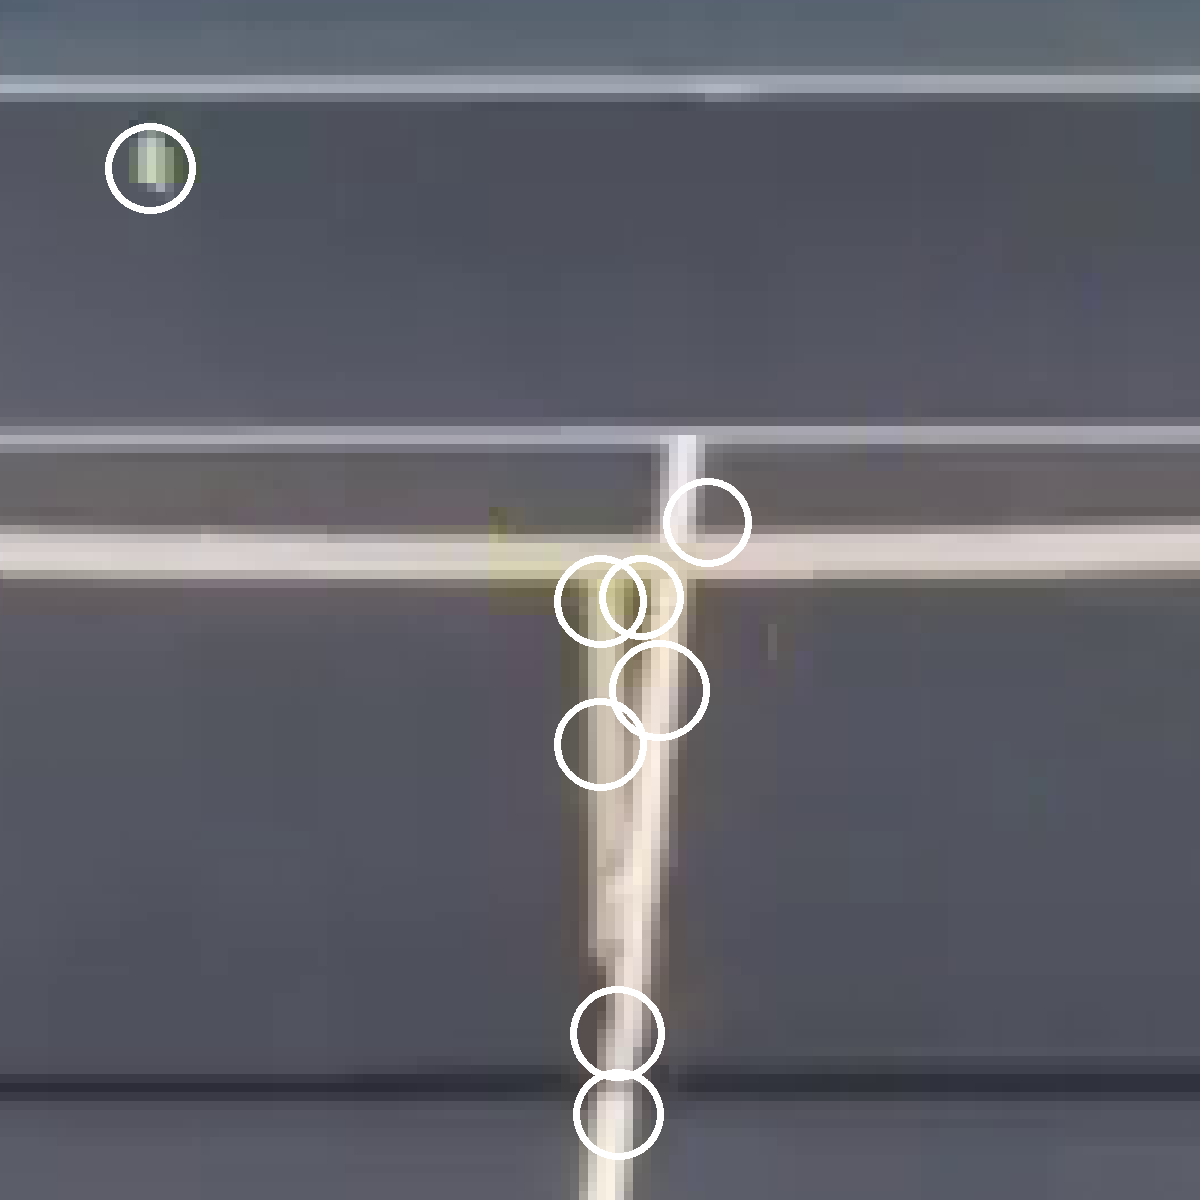
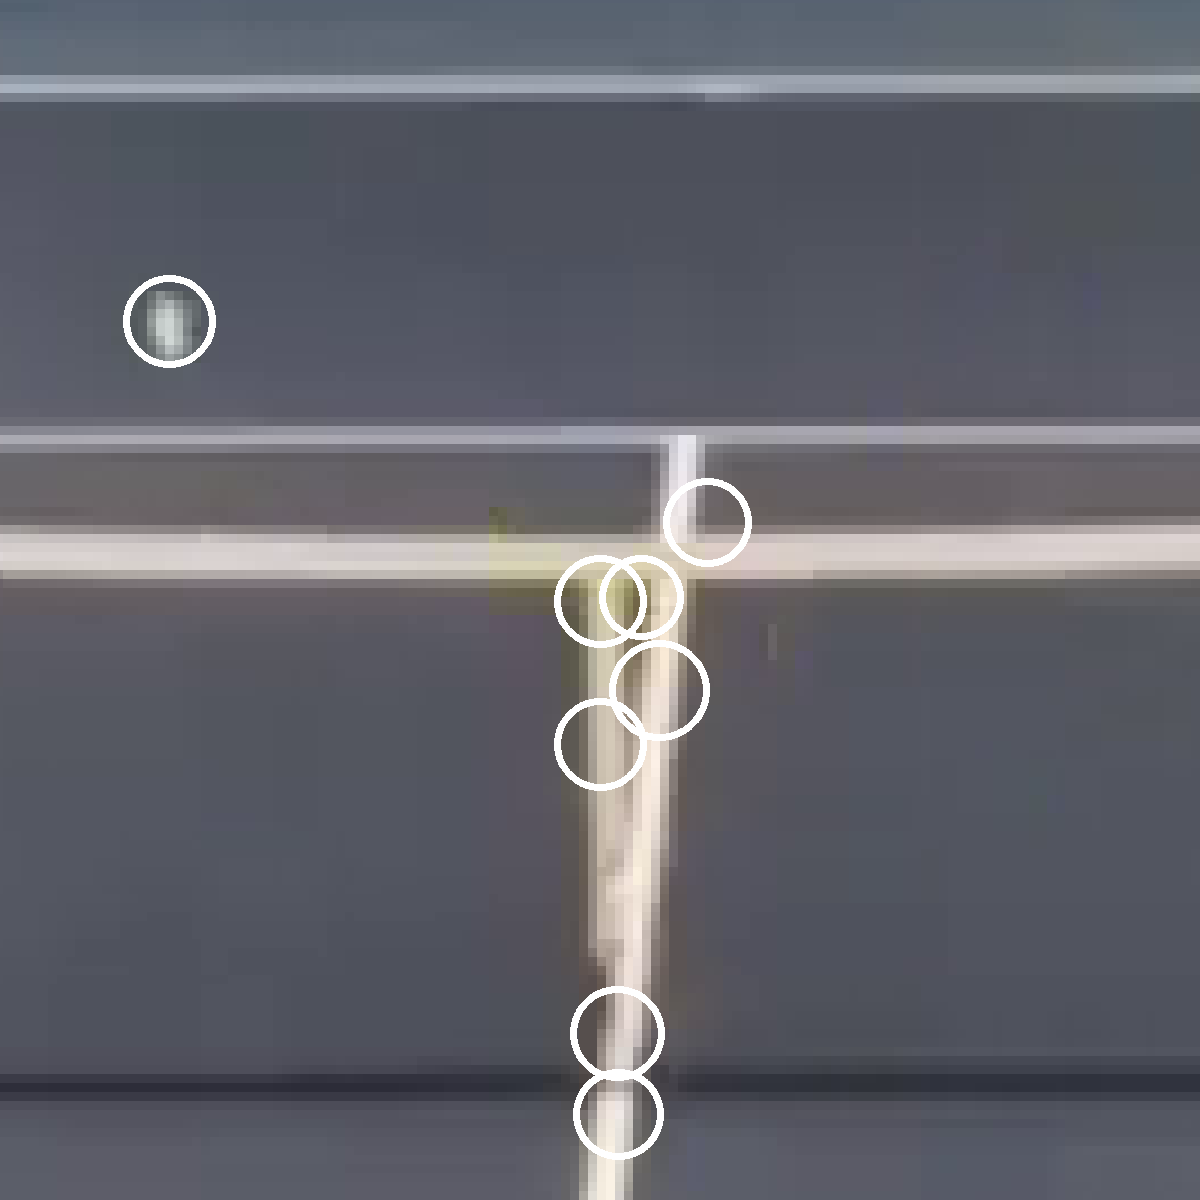
Continued detecting non moving circles

Changed region(s): [[0.0925, 0.2158, 0.185, 0.3083], [0.0617, 0.0925, 0.185, 0.185]]

diff --git a/AI/ball_tracking2_zoom_prueba2.py b/AI/ball_tracking2_zoom_prueba2.py
@@ -152,7 +152,7 @@ def main(frame):
             # Si se detectó un centro hace menos de 0.3 segundos
             else:
                 # Corre la función tp_fix para determinar cual es el contorno detectado que está mas cerca de la pelota del frame anterior, es decir, encuentra la peltoa a través de su posición en el frame anterior
-                if preCentro is not None: casiCentro = tp_fix(contornos, preCentro, TiempoDeteccionUltimaPelota, False, None)
+                if preCentro is not None: casiCentro = tp_fix(contornos, preCentro, TiempoDeteccionUltimaPelota, False, None, None)
                 
                 # Encuentra la posición x, y del contorno más cercano a la pelota del frame anterior. Determina el centro de la pelota
                 if casiCentro is not None:
@@ -511,7 +511,7 @@ def seEstaMoviendo(ultCentros):
     return False
 
 # Función que arregla el problema de "la zapatilla verde"
-def tp_fix(contornos, pre_centro, count, circulo, imagen_recortada):
+def tp_fix(contornos, pre_centro, count, circulo, imagen_recortada, xy1):
     cnts_pts = []
     medidorX = 100
     medidorY = 103
@@ -523,11 +523,13 @@ def tp_fix(contornos, pre_centro, count, circulo, imagen_recortada):
                 continue
             cnts_pts.append(contorno)
         else:
-            print("Contorno", contorno)
-            #print("Ciruclos Ignorar", circulosAIgnorar)
-            if contorno not in circulosAIgnorar:
-                x, y, radius = contorno
-                #print("Contorno", contorno)
+            x, y, radius = contorno
+            ignorar = False
+            for circulo in circulosAIgnorar:
+                if xy1[0] + x / resizer == circulo[0] and xy1[1] + y / resizer == circulo[1] and radius / resizer == circulo[2]: 
+                    ignorar = True
+                    break
+            if not ignorar:
                 if numeroFrame > 52 and numeroFrame < 57: 
                     cv2.imwrite("imagen_recortada55.png", imagen_recortada)
                     #print("X, y, radius", x, y, radius)
@@ -765,14 +767,14 @@ def deteccionPorCirculos(preCentro, frame):
     centro = None
 
     if circles is not None:
-        circuloDetectado = tp_fix(circles[0], ((imagen_recortada.shape[0] / 2, imagen_recortada.shape[1] / 2), radioDeteccionPorCirculo * 3), 0.2, True, imagen_recortada)
+        circuloDetectado = tp_fix(circles[0], ((imagen_recortada.shape[0] / 2, imagen_recortada.shape[1] / 2), radioDeteccionPorCirculo * 3), 0.2, True, imagen_recortada, (x1, y1))
         if numeroFrame == 53: cv2.imwrite("Frame53.jpg", frame)
         if circuloDetectado is not None:
             cv2.circle(imagen_recortada, (int(circuloDetectado[0]), int(circuloDetectado[1])), 50, (255, 255, 0), thickness = 2)
 
-            xr = int(x1 + circuloDetectado[0] / 3)
-            yr = int(y1 + circuloDetectado[1] / 3)
-            rr = int(circuloDetectado[2] / 3)
+            xr = int(x1 + circuloDetectado[0] / resizer)
+            yr = int(y1 + circuloDetectado[1] / resizer)
+            rr = int(circuloDetectado[2] / resizer)
 
             cv2.circle(frame, (xr, yr), rr, (255, 255, 0), thickness = 2)
 
@@ -787,6 +789,22 @@ def deteccionPorCirculos(preCentro, frame):
 
     else: radioDeteccionPorCirculo = radio
 
+    if numeroFrame == 52:
+        # Agrandamos el frame para ver más la pelota
+        frame = imutils.resize(frame, frame.shape[1] * resizer, frame.shape[0] * resizer)
+
+        # Convertir la imagen a escala de grises
+        imagen_gris = cv2.cvtColor(frame, cv2.COLOR_BGR2GRAY)
+
+        # Aplicar un suavizado si es necesario
+        blurred = cv2.GaussianBlur(imagen_gris, (11, 11), 0)
+
+        # Buscamos los círculos en la imágen
+        circles = cv2.HoughCircles(blurred, cv2.HOUGH_GRADIENT, dp=1.2, minDist=40, param1=50, param2=25, minRadius=5, maxRadius=100)
+
+        for circle in circles[0]:
+            cv2.circle(frame, (int(circle[0] / resizer), int(circle[1] / resizer)), int(circle[2] / resizer), (255, 255, 255), 2)
+
     # Si se encuentran círculos, dibújalos en la imagen original
     if circles is not None:
         circles = np.round(circles[0, :]).astype(int)
@@ -794,7 +812,7 @@ def deteccionPorCirculos(preCentro, frame):
             #if abs(r - radioDeteccionPorCirculo * 3) < 10: cv2.circle(imagen_recortada, (x, y), r, (0, 255, 0), 2)
             cv2.circle(imagen_recortada, (x, y), r, (0, 255, 0), 2)
         
-    a = False
+    a = True
     
     if a:
         pausado = True
@@ -1046,9 +1064,18 @@ circulosAIgnorar = []
 with open(ruta_archivo, "r") as archivo:
     # Leer el contenido del archivo
     contenido = archivo.read()
-    
+
     # Procesar el contenido y asignarlo a la lista
-    circulosAIgnorar = contenido.splitlines()  # Suponiendo que cada línea del archivo corresponde a un elemento de la lista
+    circulosAIgnorar1 = contenido.splitlines()  # Suponiendo que cada línea del archivo corresponde a un elemento de la lista
+
+    for i in circulosAIgnorar1:
+        i = i.strip("[]")  # Elimina los corchetes del inicio y el final de la cadena
+
+        lista_str = i.split()  # Divide la cadena en una lista de strings
+
+        lista_enteros = [float(num) for num in lista_str]  # Convierte cada string en un float y luego en un entero
+
+        circulosAIgnorar.append(lista_enteros)
 
 # Se corre el for la cantidad de frames que contiene el video
 for _ in range(frame_count - aSaltear):
@@ -1060,6 +1087,9 @@ for _ in range(frame_count - aSaltear):
     # Toma el frame del video
     frame = vs.read()
     frame = frame[1] if args.get("video", False) else frame
+
+    #for circulo in circulosAIgnorar:
+        #cv2.circle(frame, (int(circulo[0] / resizer), int(circulo[1] / resizer)), int(circulo[2] / resizer), (255, 255, 255), 2)
 
     if numeroFrame == aSaltear + 1:
         # Ancho y alto de la imagen
